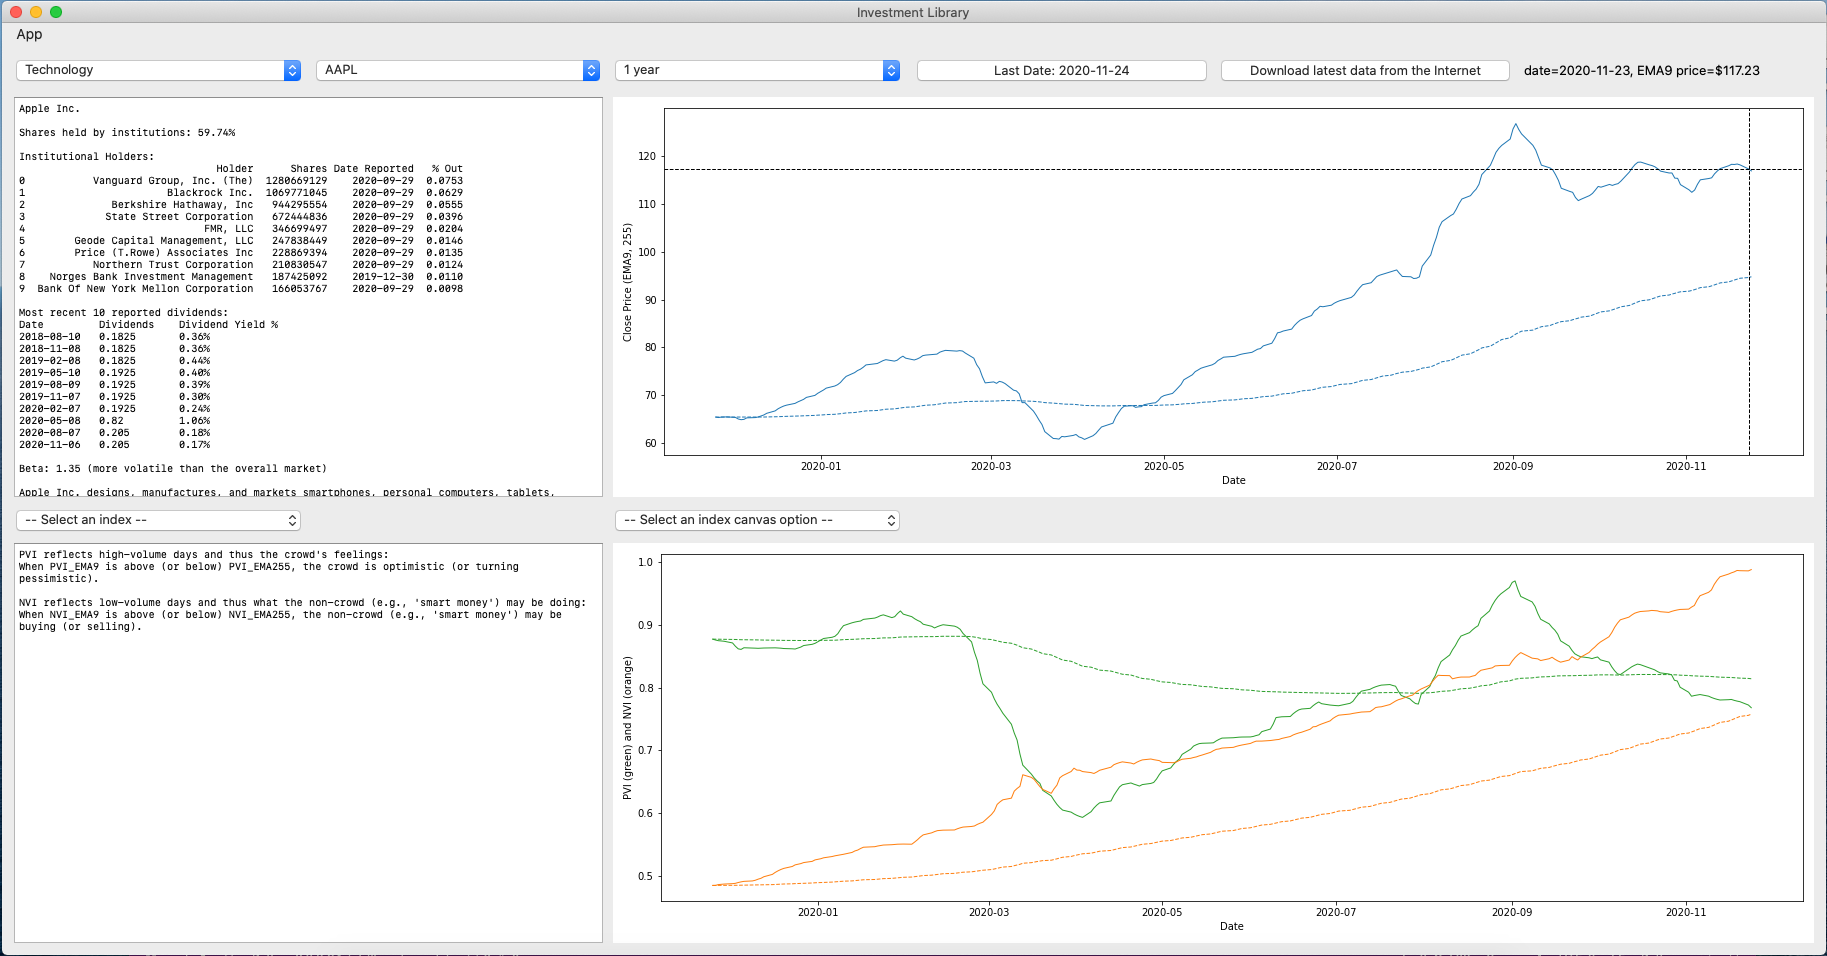
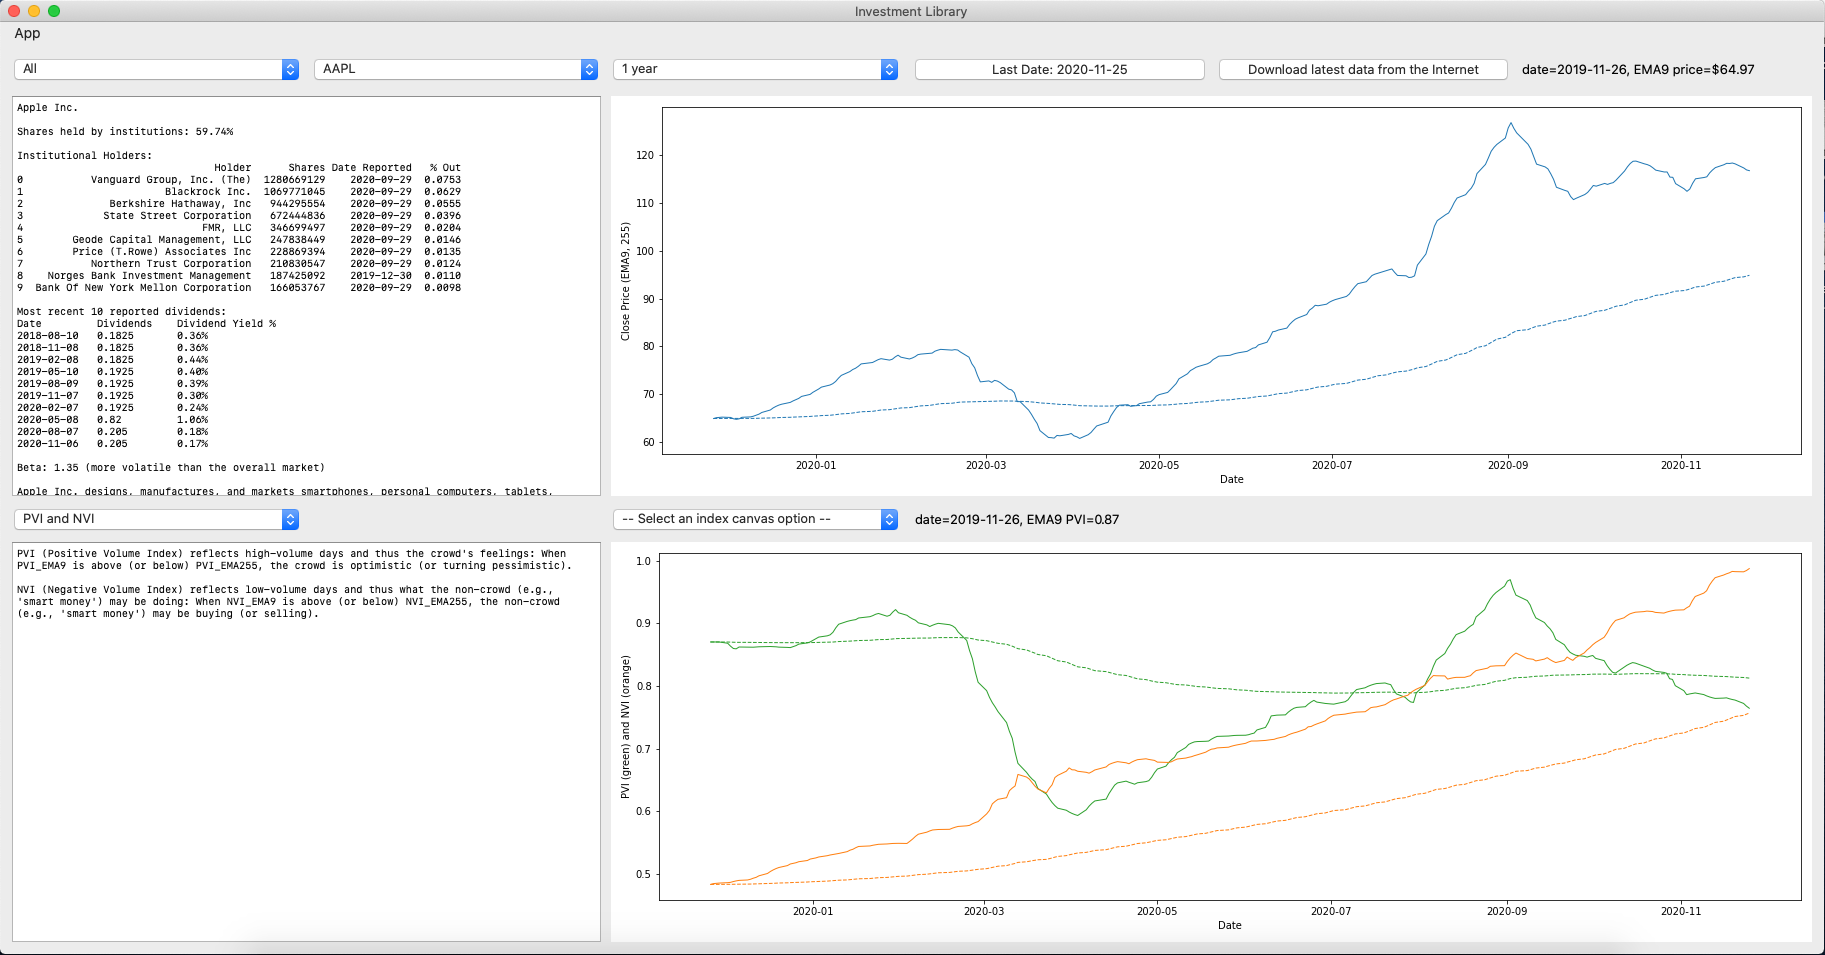
Update

diff --git a/investment/gui/_gui.py b/investment/gui/_gui.py
@@ -267,7 +267,8 @@ class preferences_dialog(QDialog):
         self.checkbox_download_today_data = QCheckBox("When downloading latest data from the Internet, include today's data (which may be incomplete if market still opens) ?", parent=self)
         self.label_data_root_dir = QLabel(parent=self)
         self.data_root_dir = data_root_dir
-        self.label_data_root_dir.setText(f"Directory to store cache data: {data_root_dir}")
+        self.label_data_root_dir.setText(f"Directory to store cache data: <span style=\"color:blue\">{data_root_dir}</span>")
+        self.label_data_root_dir.setTextFormat(Qt.RichText)
         self.force_redownload_yfinance_data = force_redownload_yfinance_data
         self.download_today_data = download_today_data
         self.checkbox_force_redownload_yfinance_data.setChecked(self.force_redownload_yfinance_data)            
@@ -506,9 +507,11 @@ class UI_control(object):
     def _group_selection_change(self, index: int = None):
         if index > 0:
             group_selected = self._UI.group_selection.itemText(index)
+            # ticker selection
             self._UI.ticker_selection.reset()
             for ticker in sorted(ticker_group_dict[group_selected]):
                 self._UI.ticker_selection.addItem(ticker)
+            # ticker texinfo
             self._UI.ticker_textinfo.setText(group_desc_dict[group_selected])
             # ticker frame selection
             self._UI.ticker_timeframe_selection.reset()
@@ -520,7 +523,9 @@ class UI_control(object):
             self._UI.index_canvas.axes.clear()
             self._UI.index_canvas.draw()
             self._UI.index_canvas_coord_label.clear()
-            # canvas textinfo
+            # index selection
+            self._UI.index_selection.reset()
+            # index textinfo
             self._UI.index_textinfo.clear()
             # ticker lastdate and redownload pushbuttons
             self._UI.ticker_lastdate_pushbutton.reset()
@@ -603,7 +608,10 @@ class UI_control(object):
             self._UI.index_canvas_coord_label.clear()
             self._draw_ticker_canvas()
             self._draw_index_canvas()
-            self._populate_index_textinfo()
+
+            self._UI.index_selection.addItem("PVI and NVI")
+            self._UI.index_selection.setCurrentIndex(1)
+            self._UI.index_textinfo.setText(f"PVI (Positive Volume Index) reflects high-volume days and thus the crowd's feelings: When PVI_EMA9 is above (or below) PVI_EMA255, the crowd is optimistic (or turning pessimistic).\n\nNVI (Negative Volume Index) reflects low-volume days and thus what the non-crowd (e.g., 'smart money') may be doing: When NVI_EMA9 is above (or below) NVI_EMA255, the non-crowd (e.g., 'smart money') may be buying (or selling).")
 
             self._UI.ticker_lastdate_pushbutton.setEnabled(True)
             self._UI.ticker_download_latest_data_from_yfinance_pushbutton.setEnabled(True)
@@ -637,9 +645,6 @@ class UI_control(object):
         canvas.mpl_connect('motion_notify_event', self.index_canvas_cursor.onmove)
         #################################################
         canvas.draw()
-
-    def _populate_index_textinfo(self):
-        self._UI.index_textinfo.setText(f"PVI reflects high-volume days and thus the crowd's feelings:\nWhen PVI_EMA9 is above (or below) PVI_EMA255, the crowd is optimistic (or turning pessimistic).\n\nNVI reflects low-volume days and thus what the non-crowd (e.g., 'smart money') may be doing:\nWhen NVI_EMA9 is above (or below) NVI_EMA255, the non-crowd (e.g., 'smart money') may be buying (or selling).")
 
     def _ticker_timeframe_selection_change(self, index: int = None):
         if index > 0:

diff --git a/investment/__about__.py b/investment/__about__.py
@@ -5,6 +5,6 @@
 # License: GNU General Public License v3 (GPLv3)
 
  
-__version__ = "0.1.0a7"
+__version__ = "0.1.0a8"
 
 __license__ = "GPL v3"
